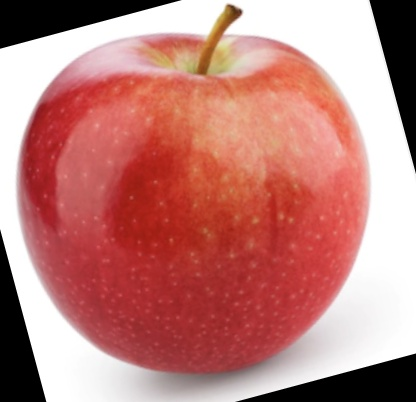
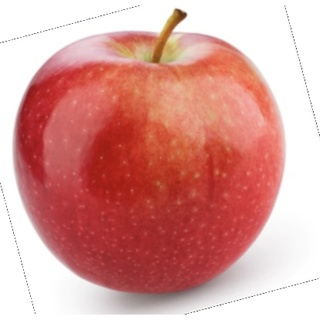
Clean sample images: remove black rotation corner padding, center fruit, and improve thumbnail fitting

diff --git a/public/static/css/style.css b/public/static/css/style.css
@@ -809,11 +809,13 @@ ul {
 }
 
 .preset-thumb {
-    width: 62px;
-    height: 62px;
+    width: 66px;
+    height: 66px;
     border-radius: var(--radius-sm);
-    object-fit: cover;
-    background-color: var(--bg-subtle);
+    object-fit: contain;
+    background-color: #ffffff;
+    padding: 3px;
+    box-shadow: inset 0 0 0 1px rgba(0, 0, 0, 0.06);
 }
 
 .preset-meta {

diff --git a/static/css/style.css b/static/css/style.css
@@ -809,11 +809,13 @@ ul {
 }
 
 .preset-thumb {
-    width: 62px;
-    height: 62px;
+    width: 66px;
+    height: 66px;
     border-radius: var(--radius-sm);
-    object-fit: cover;
-    background-color: var(--bg-subtle);
+    object-fit: contain;
+    background-color: #ffffff;
+    padding: 3px;
+    box-shadow: inset 0 0 0 1px rgba(0, 0, 0, 0.06);
 }
 
 .preset-meta {

diff --git a/templates/index.html b/templates/index.html
@@ -817,11 +817,13 @@ ul {
 }
 
 .preset-thumb {
-    width: 62px;
-    height: 62px;
+    width: 66px;
+    height: 66px;
     border-radius: var(--radius-sm);
-    object-fit: cover;
-    background-color: var(--bg-subtle);
+    object-fit: contain;
+    background-color: #ffffff;
+    padding: 3px;
+    box-shadow: inset 0 0 0 1px rgba(0, 0, 0, 0.06);
 }
 
 .preset-meta {

diff --git a/scripts/clean_sample_images.py b/scripts/clean_sample_images.py
@@ -1,0 +1,89 @@
+from PIL import Image
+import numpy as np
+from collections import deque
+import glob, os
+
+def clean_and_square_image(img):
+    img = img.convert('RGB')
+    w, h = img.size
+    arr = np.array(img).copy()
+    
+    q = deque()
+    visited = np.zeros((h, w), dtype=bool)
+    
+    # Border dark pixels
+    for y in range(h):
+        for x in (0, w - 1):
+            if np.all(arr[y, x] < 45) and not visited[y, x]:
+                visited[y, x] = True
+                q.append((y, x))
+    for x in range(w):
+        for y in (0, h - 1):
+            if np.all(arr[y, x] < 45) and not visited[y, x]:
+                visited[y, x] = True
+                q.append((y, x))
+                
+    while q:
+        cy, cx = q.popleft()
+        arr[cy, cx] = [255, 255, 255]
+        for ny, nx in ((cy-1, cx), (cy+1, cx), (cy, cx-1), (cy, cx+1)):
+            if 0 <= ny < h and 0 <= nx < w and not visited[ny, nx]:
+                if np.all(arr[ny, nx] < 45):
+                    visited[ny, nx] = True
+                    q.append((ny, nx))
+                    
+    cleaned_img = Image.fromarray(arr)
+    
+    # Bounding box of fruit to center nicely
+    non_white = np.any(arr < 240, axis=2)
+    rows = np.where(non_white.any(axis=1))[0]
+    cols = np.where(non_white.any(axis=0))[0]
+    
+    if len(rows) > 0 and len(cols) > 0:
+        rmin, rmax = rows[0], rows[-1]
+        cmin, cmax = cols[0], cols[-1]
+        
+        # Add a pleasant 8% margin around fruit
+        fruit_w = cmax - cmin
+        fruit_h = rmax - rmin
+        margin = int(max(fruit_w, fruit_h) * 0.08)
+        
+        cmin = max(0, cmin - margin)
+        rmin = max(0, rmin - margin)
+        cmax = min(w - 1, cmax + margin)
+        rmax = min(h - 1, rmax + margin)
+        
+        cropped_fruit = cleaned_img.crop((cmin, rmin, cmax, rmax))
+        cw, ch = cropped_fruit.size
+        side = max(cw, ch)
+        
+        square_img = Image.new('RGB', (side, side), (255, 255, 255))
+        square_img.paste(cropped_fruit, ((side - cw) // 2, (side - ch) // 2))
+    else:
+        max_dim = max(w, h)
+        square_img = Image.new('RGB', (max_dim, max_dim), (255, 255, 255))
+        square_img.paste(cleaned_img, ((max_dim - w) // 2, (max_dim - h) // 2))
+
+    return square_img.resize((320, 320), Image.Resampling.LANCZOS)
+
+def process_all():
+    target_dirs = [
+        os.path.join('static', 'samples'),
+        os.path.join('public', 'static', 'samples')
+    ]
+    
+    for filename in ['freshapples.jpg', 'rottenapples.jpg', 'freshbanana.jpg', 'rottenbanana.jpg', 'freshoranges.jpg', 'rottenoranges.jpg']:
+        src_path = os.path.join('static', 'samples', filename)
+        if not os.path.exists(src_path):
+            continue
+        im = Image.open(src_path)
+        cleaned = clean_and_square_image(im)
+        
+        for d in target_dirs:
+            os.makedirs(d, exist_ok=True)
+            out_path = os.path.join(d, filename)
+            cleaned.save(out_path, format='JPEG', quality=95)
+            print(f'[+] Cleaned and saved: {out_path}')
+
+if __name__ == '__main__':
+    process_all()

diff --git a/scripts/inline_assets.py b/scripts/inline_assets.py
@@ -1,4 +1,5 @@
 import os
+import re
 
 def inline_assets():
     html_path = os.path.join('templates', 'index.html')
@@ -14,21 +15,31 @@ def inline_assets():
     with open(js_path, 'r', encoding='utf-8') as f:
         js = f.read()
 
-    target_link = '<link rel="stylesheet" href="/static/css/style.css">'
-    if target_link in html:
-        style_block = f'<style id="inlined-freshvision-styles">\n{css}\n</style>'
-        html = html.replace(target_link, style_block)
+    style_block = f'<style id="inlined-freshvision-styles">\n{css}\n</style>'
+    if '<style id="inlined-freshvision-styles">' in html:
+        html = re.sub(
+            r'<style id="inlined-freshvision-styles">.*?</style>',
+            style_block,
+            html,
+            flags=re.DOTALL
+        )
+        print('[+] Replaced existing inlined CSS block with updated style.css')
+    elif '<link rel="stylesheet" href="/static/css/style.css">' in html:
+        html = html.replace('<link rel="stylesheet" href="/static/css/style.css">', style_block)
         print('[+] Inlined style.css into index.html')
-    else:
-        print('[!] target_link not found')
 
-    target_script = '<script src="/static/js/app.js"></script>'
-    if target_script in html:
-        script_block = f'<script id="inlined-freshvision-scripts">\n{js}\n</script>'
-        html = html.replace(target_script, script_block)
+    script_block = f'<script id="inlined-freshvision-scripts">\n{js}\n</script>'
+    if '<script id="inlined-freshvision-scripts">' in html:
+        html = re.sub(
+            r'<script id="inlined-freshvision-scripts">.*?</script>',
+            script_block,
+            html,
+            flags=re.DOTALL
+        )
+        print('[+] Replaced existing inlined JS block with updated app.js')
+    elif '<script src="/static/js/app.js"></script>' in html:
+        html = html.replace('<script src="/static/js/app.js"></script>', script_block)
         print('[+] Inlined app.js into index.html')
-    else:
-        print('[!] target_script not found')
 
     with open(html_path, 'w', encoding='utf-8') as f:
         f.write(html)
